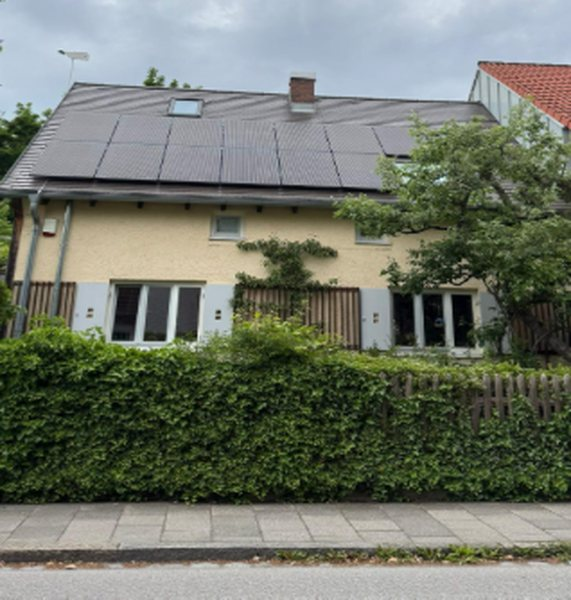
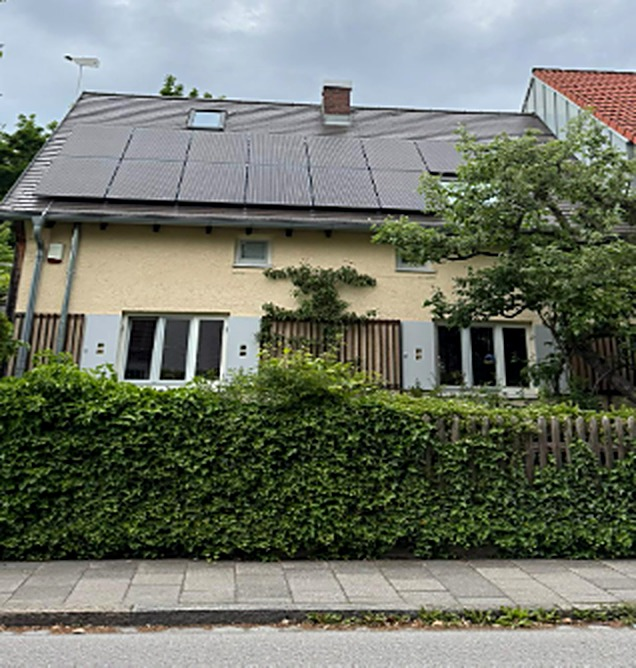
Update README.

diff --git a/README.md b/README.md
@@ -295,7 +295,7 @@ The energy vision uses the mix of old and new buildings in PGA as a strength. Th
 - **Solar energy:** during the site visits, rooftop solar panels were found on many buildings, showing that residents are already open to renewable energy.
 - **Older buildings:** in the Old Residential Area, some buildings lack proper insulation, have old windows and use inefficient heating or cooling. This leads to high energy use and less comfort for residents. Research by the Buildings Performance Institute Europe shows that renovations such as better insulation, new windows and improved ventilation can cut a building's energy use by up to 80%.
 
-![Rooftop solar panels on an older house in PGA](images/energy-rooftop-solar.jpg)
+<img src="images/energy-rooftop-solar.jpg" alt="Rooftop solar panels on an older house in PGA" width="360">
 
 *Rooftop solar panels on an older house in PGA (site photo)*
 
@@ -349,8 +349,4 @@ The proposals were compared to see how they affect each other.
 
 ## Team
 
-This project is a group work by:
-
-Graham Badebye Ndiko, Shijil Adikkool, Arya Aji, Akshay Maru Veettil, Maike Schütz, Paulo Siqueira, Mariya Vettussery Thadevoos, Krishna Vinod
-
-Supervisor: Doris Bechtel, Chair of Energy Efficient and Sustainable Design and Building, TUM
+This project is a group work by a team of 8 students at the Technical University of Munich (TUM).
